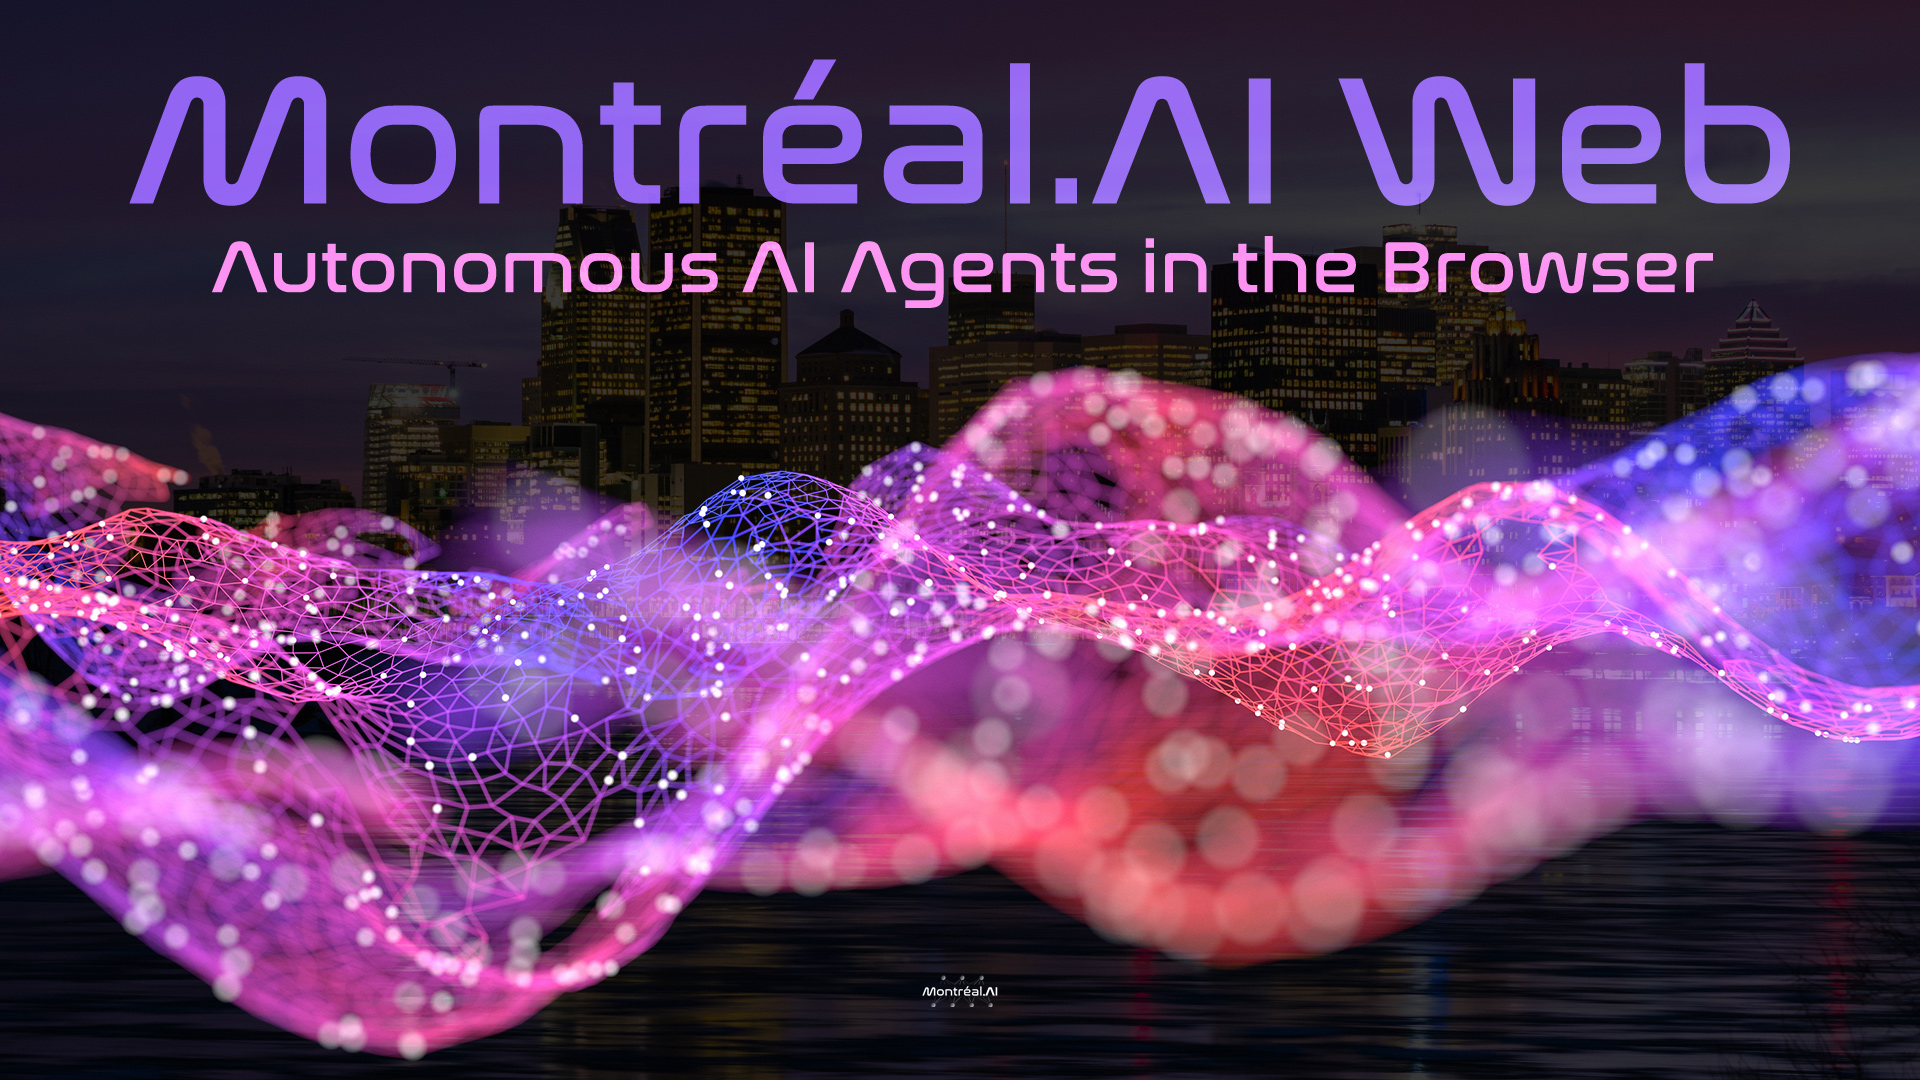
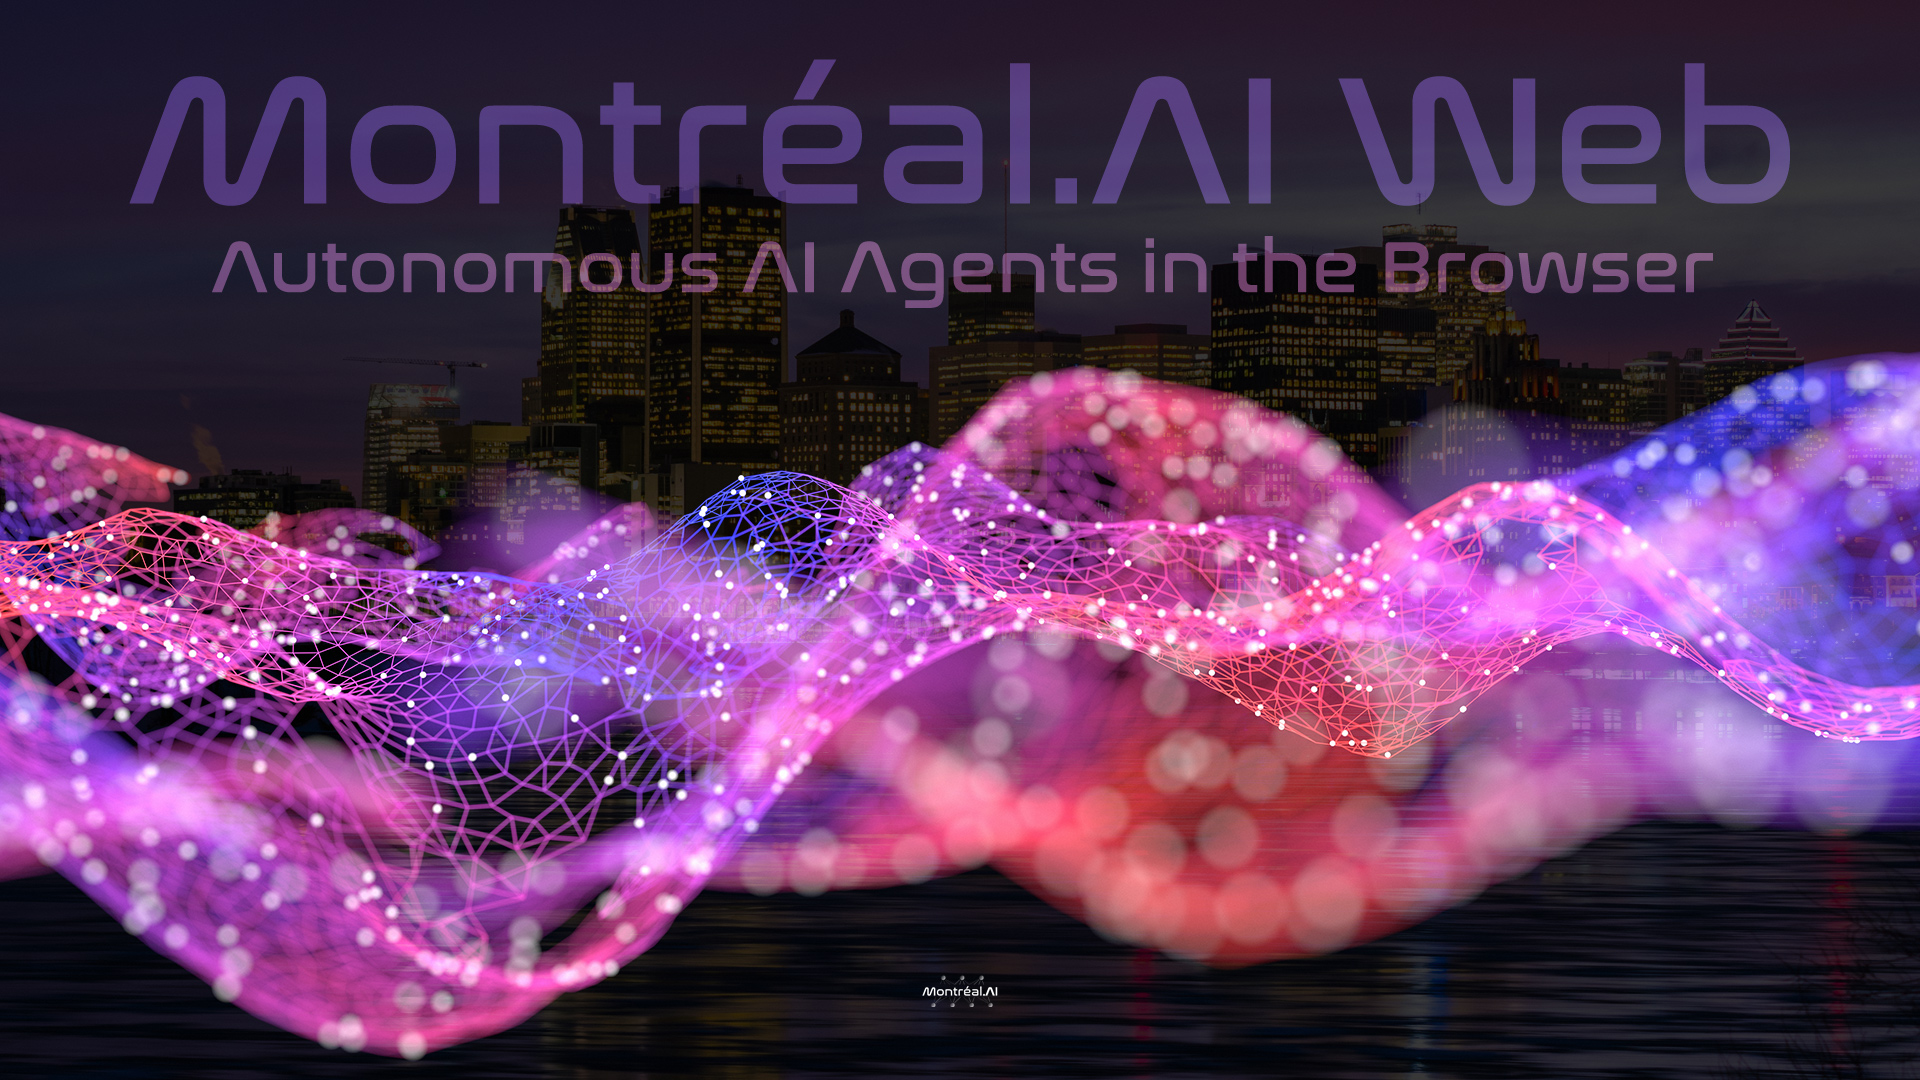
Site updated: 2018-08-04 18:06:19

Changed region(s): [[0.0625, 0.0611, 0.9375, 0.3056]]

diff --git a/web-ai/index.html b/web-ai/index.html
@@ -107,21 +107,21 @@
     </h1>
     <div class="article-meta columns is-variable is-1 is-multiline is-mobile is-size-7-mobile">
         <span class="column is-narrow">
-            <time datetime="2018-08-03T23:59:30.000Z" itemprop="datePublished">Aug 3 2018</time>
+            <time datetime="2018-08-04T22:06:09.000Z" itemprop="datePublished">Aug 4 2018</time>
         </span>
         
         
         <span class="column is-narrow">
             
             
-            4 minutes read (About 538 words)
+            4 minutes read (About 537 words)
         </span>
         
     </div>
     <div class="article-entry is-size-6-mobile" itemprop="articleBody">
     
         <h2 id="Montreal-AI-Web-—-Artificial-Intelligence-for-the-Web"><a href="#Montreal-AI-Web-—-Artificial-Intelligence-for-the-Web" class="headerlink" title="Montréal.AI Web — Artificial Intelligence for the Web"></a>Montréal.AI Web — Artificial Intelligence for the Web</h2><p><strong>Deploying machine learning in the browser unlocks new possibilities</strong>, like interactive artificial intelligence! On a mobile device, the algorithm can even leverage sensor data (i.e.: gyroscope or accelerometer). Further, all data stays on the client, making TensorFlow.js useful for privacy preserving applications.</p>
-<p><img src="../images/MontrealAIWeb1080x1920.jpg" alt="Montréal.AI Web — Artificial Intelligence for the Web" title="Montréal.AI Web : Deploying Machine Learning Models in the Browser"></p>
+<p><img src="../images/MontrealAIWeb3_1440.jpg" alt="Montréal.AI Web — Artificial Intelligence for the Web" title="Montréal.AI Web : Deploying Machine Learning Models in the Browser"></p>
 <blockquote>
 <p>“ <em>Artificial Intelligence is about recognising patterns, Artificial Life is about creating patterns.</em> “</p>
 </blockquote>
